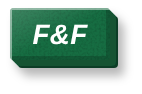
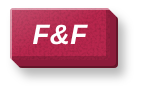
The F&F badge is a warm rose, #b8264d with white text at 6.14:1, in the badge files and on the P99 page, and the generator drops its candidates mode

diff --git a/worker/src/web/app.css b/worker/src/web/app.css
@@ -20,7 +20,7 @@
 .app-badge[data-state="studio"] { --app-badge-face: #2c66b8; --app-badge-ink: #ffffff; --app-badge-near: #214e8c; --app-badge-far: #183865; }
 .app-badge[data-state="agency"] { --app-badge-face: #1d4785; --app-badge-ink: #ffffff; --app-badge-near: #163665; --app-badge-far: #102749; }
 .app-badge[data-state="owner"] { --app-badge-face: #e0a32a; --app-badge-ink: #241500; --app-badge-near: #aa7c20; --app-badge-far: #7b5a17; }
-.app-badge[data-state="ff"] { --app-badge-face: #196d43; --app-badge-ink: #ffffff; --app-badge-near: #135333; --app-badge-far: #0e3c25; }
+.app-badge[data-state="ff"] { --app-badge-face: #b8264d; --app-badge-ink: #ffffff; --app-badge-near: #8c1d3b; --app-badge-far: #65152a; }
 .app-badge-in { animation: app-badge-in var(--p99-motion-panel) var(--p99-ease-enter) var(--p99-motion-fast) both; }
 .app-me { display: inline-grid; flex: none; place-items: center; border-radius: 50%; text-decoration: none; transition: transform var(--p99-motion-fast) var(--p99-ease-enter); }
 .app-me:active { transform: scale(0.94); }
